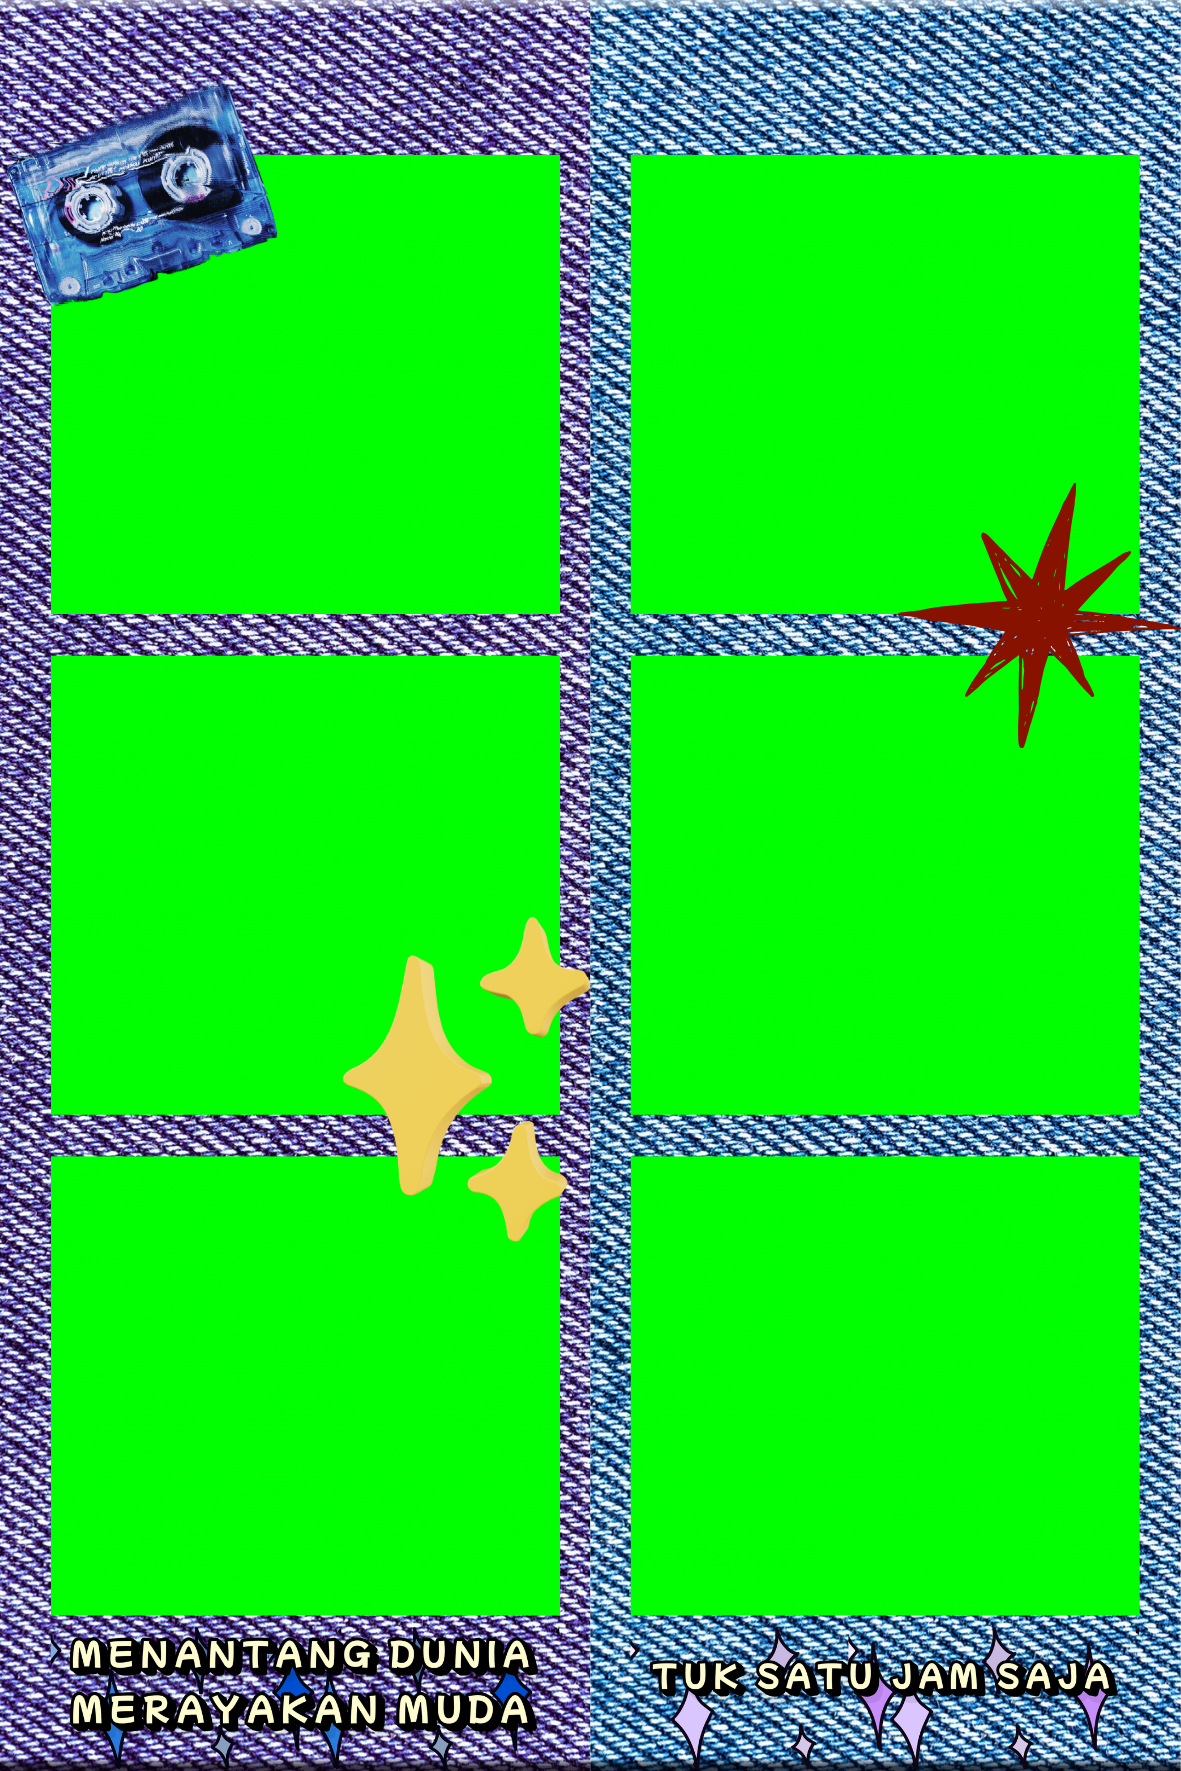
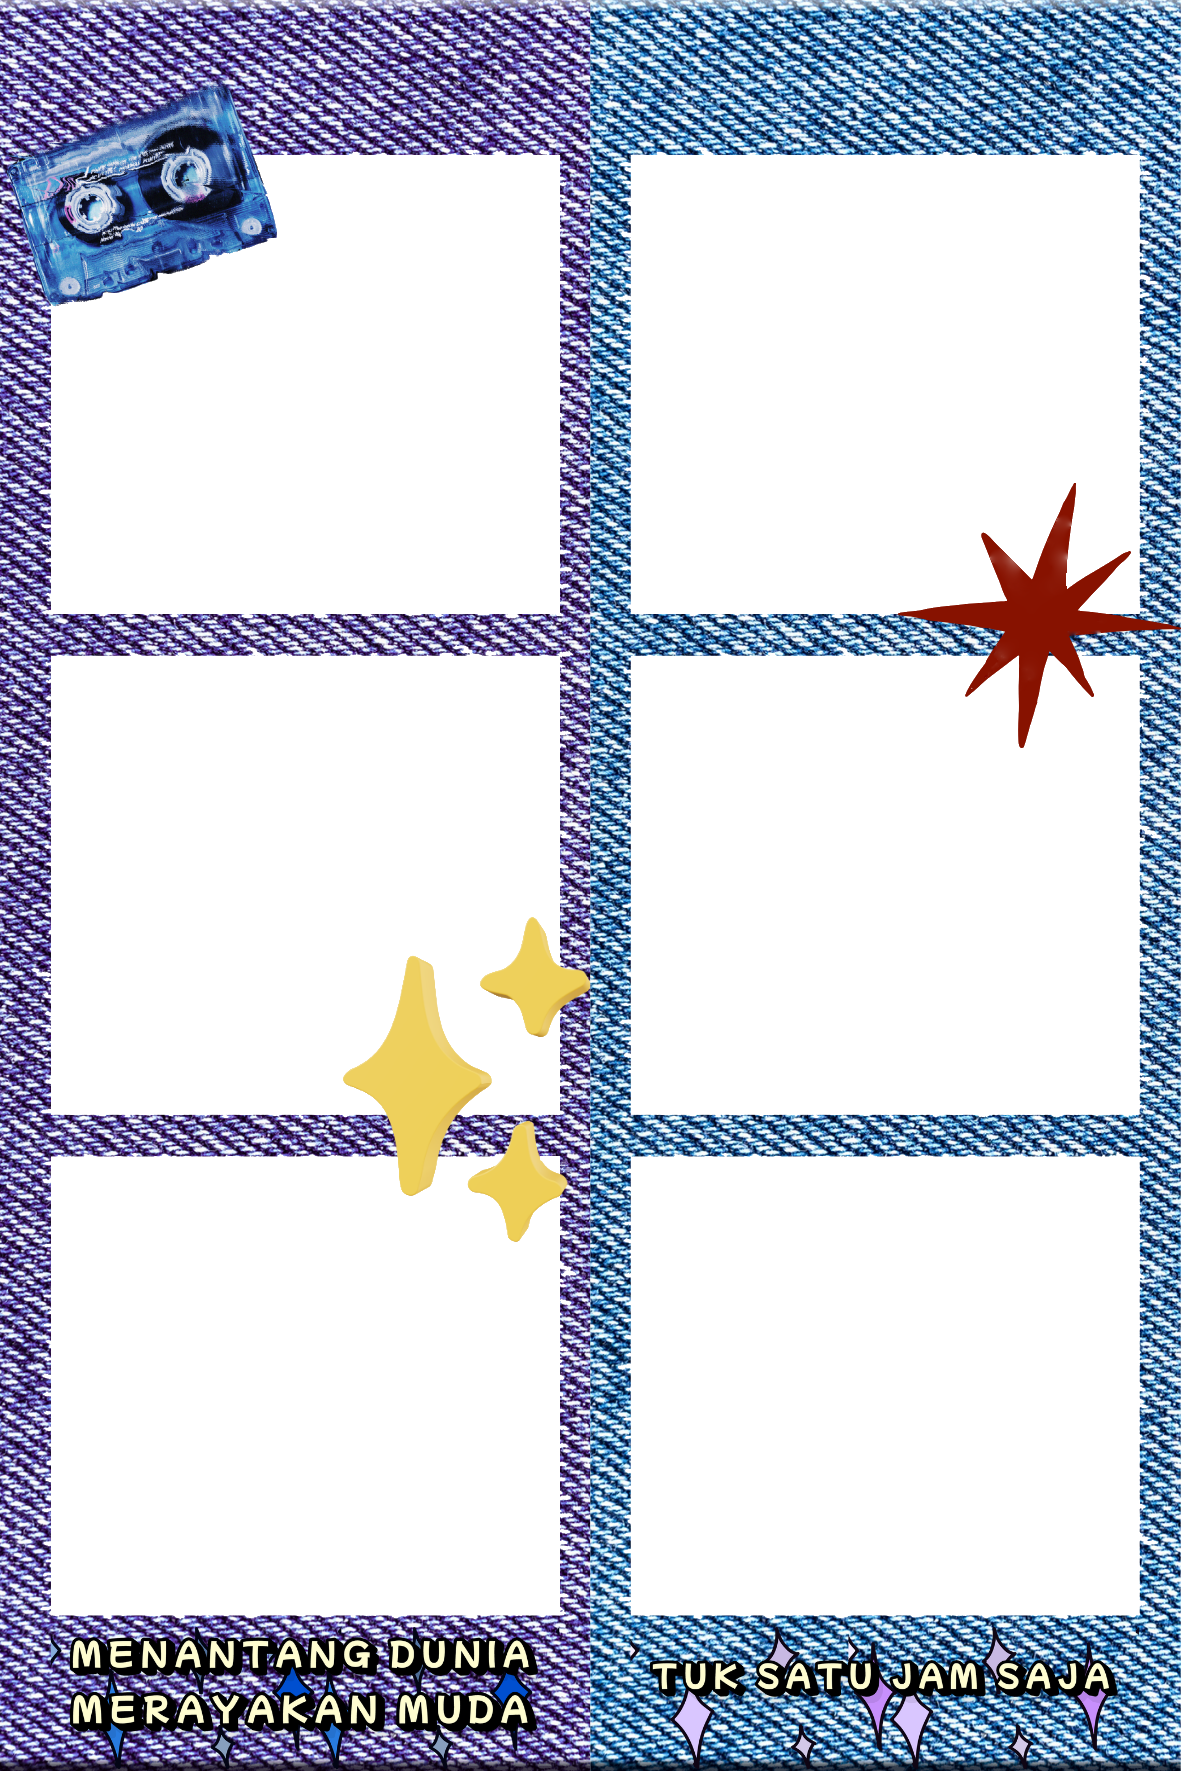
improve full Ui, penambahan fitur photobooth dan lainnya

diff --git a/components/photobooth/FrameSelection.tsx b/components/photobooth/FrameSelection.tsx
@@ -3,7 +3,7 @@
 import { useEffect, useState } from "react";
 import Image from "next/image";
 import { useRouter, useSearchParams } from "next/navigation";
-import { ArrowLeft } from "lucide-react";
+import { ArrowLeft, Sparkles } from "lucide-react";
 import { photoboothFrames } from "@/lib/photobooth/frames";
 
 export default function FrameSelection() {
@@ -18,183 +18,204 @@ export default function FrameSelection() {
   const router = useRouter();
   const searchParams = useSearchParams();
 
-const selectedLayout =
-  searchParams.get("layout") ?? "layout4";
+  const selectedLayout = searchParams.get("layout") ?? "layout4";
 
-const filteredFrames = photoboothFrames.filter((frame) => {
-  const matchLayout = frame.layout === selectedLayout;
+  const filteredFrames = photoboothFrames.filter((frame) => {
+    const matchLayout = frame.layout === selectedLayout;
 
-  const matchCategory =
-    selectedCategory === "All"
-      ? true
-      : frame.category === selectedCategory;
+    const matchCategory =
+      selectedCategory === "All"
+        ? true
+        : frame.category === selectedCategory;
 
-  return matchLayout && matchCategory;
-});
-useEffect(() => {
-  if (filteredFrames.length > 0) {
-    setSelectedFrame(filteredFrames[0]);
-  }
-}, [selectedLayout, selectedCategory]);
+    return matchLayout && matchCategory;
+  });
 
-return (
-  <div className="flex h-screen flex-col overflow-hidden bg-[#111B54]">
-    <header className="relative flex h-16 items-center justify-center border-b border-[#24306F] bg-[#091542]">
+  useEffect(() => {
+    if (filteredFrames.length > 0) {
+      setSelectedFrame(filteredFrames[0]);
+    }
+  }, [selectedLayout, selectedCategory]);
 
-  <button
-    onClick={() => router.push("/photobooth")}
-    className="absolute left-6 flex items-center gap-2 text-sm font-medium text-gray-300 transition hover:text-white"
-  >
-    <ArrowLeft size={18} />
-    Back
-  </button>
+  const chipColors = [
+    "bg-[#BFE7DA]",
+    "bg-[#FFD9C7]",
+    "bg-[#D6D2F5]",
+    "bg-[#CDE6F7]",
+    "bg-[#F6C445]",
+  ];
 
-  <h1 className="text-sm font-bold uppercase tracking-[0.35em] text-[#FFD22E]">
-    SELECT FRAME
-  </h1>
+  return (
+    <div className="flex h-screen flex-col overflow-hidden bg-[#BFE7DA] font-[DM_Sans,sans-serif] text-[#1a1a1a]">
 
-</header>
-
-<div className="flex flex-1 overflow-hidden">
-    {/* ================= LEFT SIDEBAR ================= */}
-
-    <aside className="flex h-full w-[380px] flex-col border-r border-[#24306F] bg-[#091542] text-white">
-
-      {/* CATEGORY */}
-      <div className="px-6 pt-3 pb-5">
-
-        <p className="mb-4 text-sm font-bold uppercase tracking-wider">
-          Browse Frames
-        </p>
-
-        <div className="flex gap-2 overflow-x-auto scrollbar-hide">
-
-          {categories.map((category) => (
-
-            <button
-              key={category}
-              onClick={() => setSelectedCategory(category)}
-              className={`whitespace-nowrap rounded-full px-5 py-2 text-sm font-semibold transition
-
-              ${
-                selectedCategory === category
-                  ? "bg-red-600 text-white"
-                  : "bg-[#1B275E] hover:bg-[#2B397E]"
-              }
-
-              `}
-            >
-              {category}
-            </button>
-
-          ))}
-
-        </div>
-
-      </div>
-
-      {/* SELECTED FRAME */}
-
-      <div className="px-6 pb-6">
-
-<div className="rounded-2xl border border-[#24306F] bg-[#16235F] px-4 py-3 shadow-lg">
-
-  <p className="text-[10px] font-bold uppercase tracking-widest text-yellow-300">
-  Selected
-</p>
-
-<div className="mt-2 flex items-center justify-between">
-
-  <h2 className="text-xl font-black leading-none">
-    {selectedFrame.name}
-  </h2>
-
-  <span className="rounded bg-yellow-400 px-2 py-1 text-[10px] font-bold text-black">
-    {selectedFrame.rarity}
-  </span>
-
-  </div>
-
-
-</div>
-
-        
-
-      </div>
-
-      {/* FRAME LIST */}
-
-      <div className="flex-1 overflow-y-auto p-6">
-
-        <div className="grid grid-cols-2 gap-4">
-
-          {filteredFrames.map((frame) => (
-
-            <button
-              key={frame.id}
-              onClick={() => setSelectedFrame(frame)}
-              className={`overflow-hidden rounded-2xl transition
-
-              ${
-                selectedFrame.id === frame.id
-                  ? "ring-4 ring-yellow-400"
-                  : "hover:scale-105"
-              }
-
-              `}
-            >
-
-              <Image
-                src={frame.preview}
-                alt={frame.name}
-                width={170}
-                height={250}
-                className="w-full object-cover"
-              />
-
-            </button>
-
-          ))}
-
-        </div>
-
-      </div>
-
-      {/* BUTTON */}
-
-      <div className="border-t border-[#24306F] p-6">
-
+      {/* ================= HEADER ================= */}
+      <header className="relative flex h-16 shrink-0 items-center justify-center border-b-[2.5px] border-black bg-[#F6C445]">
         <button
-          onClick={() =>
-            router.push(
-  `/photobooth/camera?layout=${selectedLayout}&frame=${selectedFrame.id}`
-)
-          }
-          className="w-full rounded-2xl bg-red-600 py-5 text-lg font-bold transition hover:bg-red-500"
+          onClick={() => router.push("/photobooth")}
+          className="absolute left-5 flex items-center gap-2 rounded-full border-[2.5px] border-black bg-white px-4 py-2 text-sm font-bold shadow-[4px_4px_0_0_#000] transition active:translate-x-[2px] active:translate-y-[2px] active:shadow-[2px_2px_0_0_#000] hover:bg-[#FFD9C7]"
         >
-          USE THIS FRAME →
+          <ArrowLeft size={16} />
+          Back
         </button>
 
+        <h1
+          className="text-sm font-black uppercase tracking-[0.35em]"
+          style={{ fontFamily: "Boldonse, 'Archivo Black', sans-serif" }}
+        >
+          Select Frame
+        </h1>
+      </header>
+
+      <div className="flex flex-1 overflow-hidden">
+        {/* ================= LEFT SIDEBAR ================= */}
+        <aside className="flex h-full w-[380px] flex-col border-r-[2.5px] border-black bg-[#F6C445]">
+          {/* CATEGORY */}
+          <div className="border-b-[2.5px] border-dashed border-black/25 px-6 pt-5 pb-5">
+            <p className="mb-3 flex items-center gap-2 text-xs font-black uppercase tracking-[0.2em]">
+              <Sparkles size={14} />
+              Browse Frames
+            </p>
+
+            <div className="flex gap-2 overflow-x-auto pt-1 pb-1 scrollbar-hide">
+              {categories.map((category, i) => (
+                <button
+                  key={category}
+                  onClick={() => setSelectedCategory(category)}
+                  className={`whitespace-nowrap rounded-full border-[2.5px] border-black px-4 py-1.5 text-xs font-bold transition
+                  ${
+                    selectedCategory === category
+                      ? "bg-[#FF8B6B] text-black shadow-[3px_3px_0_0_#000]"
+                      : `${chipColors[i % chipColors.length]} shadow-[2px_2px_0_0_#000] hover:-translate-y-[2px] hover:shadow-[4px_4px_0_0_#000]`
+                  }`}
+                >
+                  {category}
+                </button>
+              ))}
+            </div>
+          </div>
+
+          {/* SELECTED FRAME */}
+          <div className="px-6 py-5">
+            <div className="relative rounded-2xl border-[2.5px] border-black bg-[#D6D2F5] px-4 py-3 shadow-[5px_5px_0_0_#000]">
+              <span className="absolute -top-3 -right-2 -rotate-6 rounded-full border-[2px] border-black bg-[#F6C445] px-2 py-0.5 text-[9px] font-black uppercase tracking-wider">
+                Selected ✿
+              </span>
+
+              <p className="text-[10px] font-black uppercase tracking-[0.2em] text-black/60">
+                Your pick
+              </p>
+
+              <div className="mt-1.5 flex items-center justify-between gap-3">
+                <h2
+                  className="text-lg leading-tight font-black"
+                  style={{ fontFamily: "Boldonse, 'Archivo Black', sans-serif" }}
+                >
+                  {selectedFrame.name}
+                </h2>
+
+                <span className="shrink-0 rounded-md border-[2px] border-black bg-white px-2 py-1 text-[10px] font-black uppercase">
+                  {selectedFrame.rarity}
+                </span>
+              </div>
+            </div>
+          </div>
+
+          {/* FRAME LIST */}
+          <div className="flex-1 overflow-y-auto px-6 pb-6">
+            {filteredFrames.length === 0 ? (
+              <div className="mt-6 rounded-2xl border-[2.5px] border-dashed border-black/40 bg-white/60 px-6 py-10 text-center">
+                <p className="text-3xl">🖼</p>
+                <p className="mt-2 text-sm font-bold">No frames here yet</p>
+                <p className="mt-1 text-xs text-black/60">
+                  Try another category ✿
+                </p>
+              </div>
+            ) : (
+              <div className="grid grid-cols-2 gap-4">
+                {filteredFrames.map((frame) => (
+                  <button
+                    key={frame.id}
+                    onClick={() => setSelectedFrame(frame)}
+                    className={`group relative overflow-hidden rounded-2xl border-[2.5px] border-black bg-white transition
+                    ${
+                      selectedFrame.id === frame.id
+                        ? "-translate-y-[0px] shadow-[5px_5px_0_0_#000]"
+                        : "shadow-[3px_3px_0_0_#000] hover:-translate-y-[3px] hover:rotate-[-1deg] hover:shadow-[6px_6px_0_0_#000]"
+                    }`}
+                  >
+                    {selectedFrame.id === frame.id && (
+                      <span className="absolute top-1.5 left-1.5 z-10 rounded-full border-[2px] border-black bg-[#F6C445] px-1.5 text-[9px] font-black">
+                        ✓
+                      </span>
+                    )}
+
+                    <Image
+                      src={frame.preview}
+                      alt={frame.name}
+                      width={170}
+                      height={250}
+                      className="w-full object-cover"
+                    />
+                  </button>
+                ))}
+              </div>
+            )}
+          </div>
+
+          {/* BUTTON */}
+          <div className="border-t-[2.5px] border-black bg-[#F6C445] p-5">
+            <button
+              onClick={() =>
+                router.push(
+                  `/photobooth/camera?layout=${selectedLayout}&frame=${selectedFrame.id}`
+                )
+              }
+              className="w-full rounded-full border-[2.5px] border-black bg-[#1a1a1a] py-4 text-base font-black uppercase tracking-wide text-[#FFFDF5] shadow-[5px_5px_0_0_#000] transition hover:-translate-y-[2px] hover:bg-[#FF8B6B] hover:text-black hover:shadow-[7px_7px_0_0_#000] active:translate-x-[2px] active:translate-y-[2px] active:shadow-[2px_2px_0_0_#000]"
+            >
+            Use frame
+            </button>
+          </div>
+        </aside>
+
+        {/* ================= RIGHT ================= */}
+        <main className="relative flex flex-1 items-center justify-center overflow-hidden bg-[#CDE6F7]">
+          {/* decorative blobs */}
+          <div className="pointer-events-none absolute -top-10 -left-10 h-48 w-48 rounded-full border-[2.5px] border-black bg-[#BFE7DA]/70" />
+          <div className="pointer-events-none absolute -bottom-16 right-10 h-56 w-56 rounded-full border-[2.5px] border-black bg-[#D6D2F5]/70" />
+          <span className="pointer-events-none absolute top-8 right-10 rotate-6 rounded-full border-[2.5px] border-black bg-[#F6C445] px-3 py-1 text-[11px] font-black uppercase tracking-widest shadow-[4px_4px_0_0_#000]">
+            Preview ✿
+          </span>
+
+          <div className="relative z-10 rounded-3xl">
+            <Image
+              src={selectedFrame.preview}
+              alt={selectedFrame.name}
+              width={360}
+              height={1080}
+              priority
+              className="max-h-[75vh] w-auto rounded-xl object-contain"
+            />
+          </div>
+        </main>
       </div>
 
-    </aside>
-
-    {/* ================= RIGHT ================= */}
-
-    <main className="flex flex-1 items-center justify-center bg-[#141B59]">
-
-      <Image
-        src={selectedFrame.preview}
-        alt={selectedFrame.name}
-        width={360}
-        height={1080}
-        priority
-        className="max-h-[80vh] w-auto object-contain"
-      />
-
-    </main>
-
-  </div>
-  </div>
-);
+      <style jsx global>{`
+        @keyframes marquee {
+          0% {
+            transform: translateX(0);
+          }
+          100% {
+            transform: translateX(-50%);
+          }
+        }
+        .scrollbar-hide::-webkit-scrollbar {
+          display: none;
+        }
+        .scrollbar-hide {
+          -ms-overflow-style: none;
+          scrollbar-width: none;
+        }
+      `}</style>
+    </div>
+  );
 }
